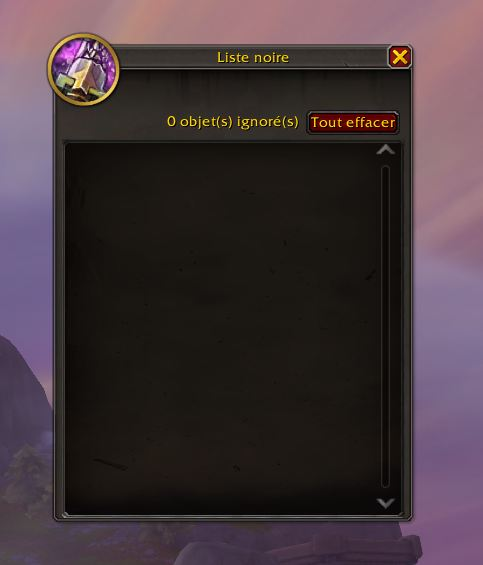
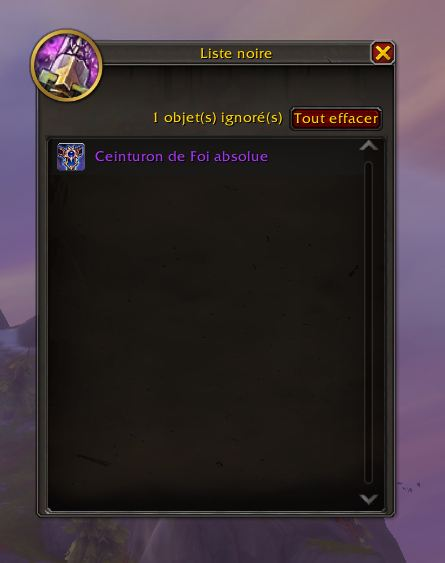
feat: Minimap button, keybindings & UI improvements (#23)
* doc:Ajout de la copie ecran BlacklistFrame

* ci:Retrait des fichiers ps1 et sh de l'addon packagé

* feat: Combat protection and profession button fix (#14)

* fix: Combat lockdown protection and profession button tab visibility

- Add InCombatLockdown() guards on MainFrame, BlacklistFrame and ProfessionButton
- Profession button now only visible on Recipes tab (first tab) using EventRegistry callback

* feat: Combat protection and profession button tab visibility

- Add combat lockdown guards with warning message on all frame Show/Toggle
- Add combat overlay (grayed out + "In combat..." text) on main frame
- Register PLAYER_REGEN_DISABLED/ENABLED to toggle combat mode
- Add COMBAT_WARNING and COMBAT_OVERLAY locale keys (6 languages)
- Fix profession button visibility: only show on Recipes tab via TabSet event
- Restore missing v1.2.1 changelog entry
- Update README with combat protection feature

* fix: Combat lockdown protection and profession button tab visibility

- Add InCombatLockdown() guards on MainFrame, BlacklistFrame and ProfessionButton
- Profession button now only visible on Recipes tab (first tab) using EventRegistry callback

* feat: Combat protection and profession button tab visibility

- Add combat lockdown guards with warning message on all frame Show/Toggle
- Add combat overlay (grayed out + "In combat..." text) on main frame
- Register PLAYER_REGEN_DISABLED/ENABLED to toggle combat mode
[…]

Changed region(s): [[0.0, 0.0, 1.0, 1.0], [0.9933, 0.2718, 1.0, 0.302], [0.3506, 0.9964, 0.3798, 1.0]]

diff --git a/CHANGELOG.md b/CHANGELOG.md
@@ -2,9 +2,25 @@
 
 All notable changes to SimpleDisenchant will be documented in this file.
 
-## [1.5.0] - 2026-03-06
+## [1.5.0] - 2026-03-05
 
 ### Added
+- **Minimap button**: Draggable button on the minimap edge for quick access
+  - Left-click to toggle main window
+  - Right-click to toggle blacklist
+  - Shift-click to hide the button
+  - Drag to reposition around the minimap
+  - Position and visibility saved per character
+  - Show/hide via `/sde minimap`
+- **Addon Compartment enhancements**: Same interactions as minimap button
+  - Left-click to toggle main window
+  - Right-click to toggle blacklist
+  - Shift-click to show/hide minimap button
+  - Tooltip with usage instructions
+- **New keybindings** (Key Bindings > Simple Disenchant):
+  - Toggle window: open/close the main frame
+  - Toggle blacklist: open/close the blacklist
+  - Toggle all windows: open or close all SimpleDisenchant windows at once
 - **Item filters** (Issue #19, #20, #21): Filter dropdown with WoW-native menu API
   - Quality/rarity checkboxes with colored names (Uncommon, Rare, Epic) matching Auction House style
   - Item level min/max range filter to protect high-level gear from accidental disenchanting
@@ -39,6 +55,10 @@ All notable changes to SimpleDisenchant will be documented in this file.
   - Toggle window: open/close the main frame
   - Toggle blacklist: open/close the blacklist
   - Toggle all windows: open or close all SimpleDisenchant windows at once
+
+### Fixed
+- Frame overlap: clicking a window now brings it to the front when frames overlap
+- Blacklist item icons now load correctly on first display (async item info handling)
 
 ### Changed
 - Quality filter buttons replaced by native WoW filter dropdown (WowStyle1FilterDropdownTemplate)
